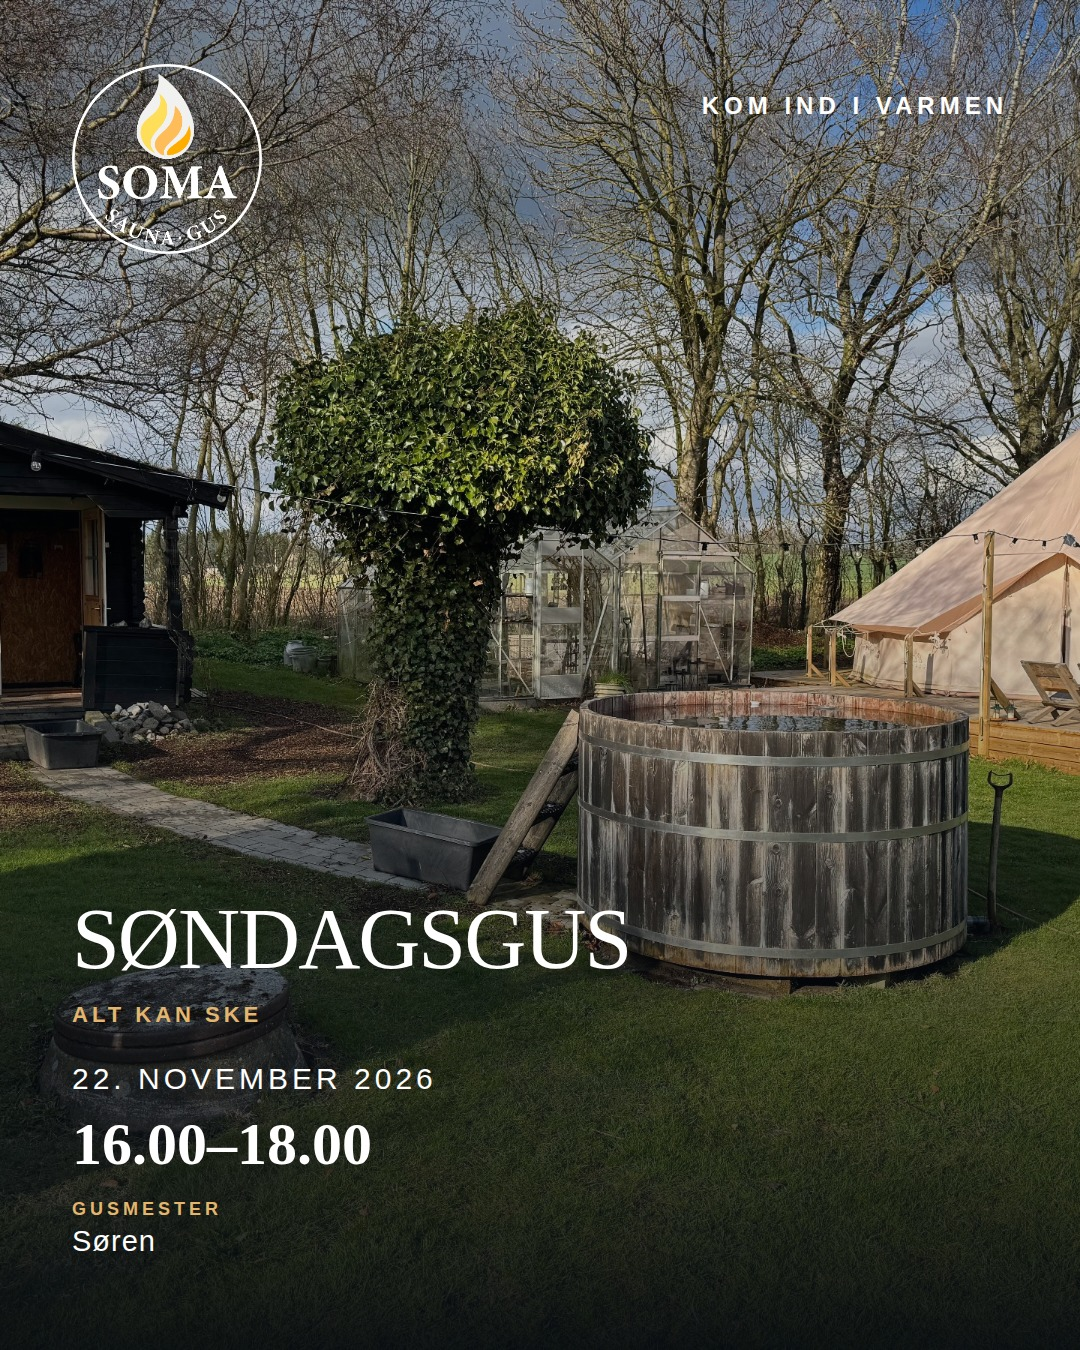
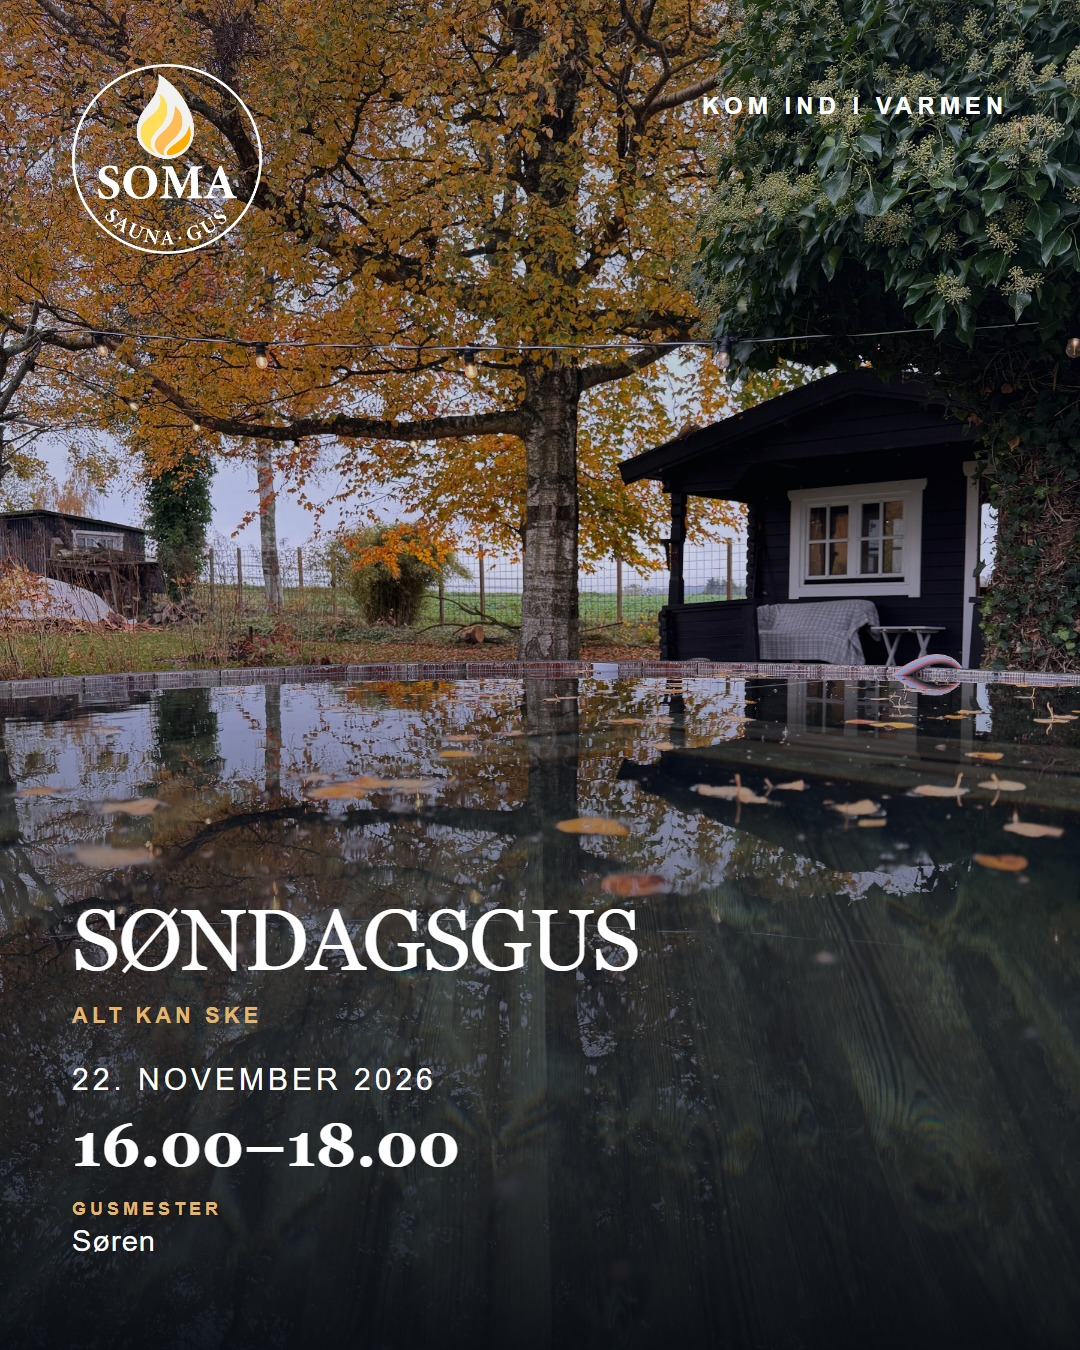
change-image: 2026-11-22_16-00_saunagus_day-before_r1 til soma-img-7323 via lokal godkendelsesside

diff --git a/outputs/content-planner/approval/drafts-data.js b/outputs/content-planner/approval/drafts-data.js
@@ -1078,7 +1078,7 @@ window.__SOMA_DRAFTS__ = window.__SOMA_DRAFTS__ || [
       "instagram": "I morgen: Rund ugen af med varme og ro i kroppen.\n\n22. november 2026 · 16.00–18.00\n\n12 ledige pladser.\n\nBook din plads: https://somasaunagus.dk/kalender/",
       "facebookPage": "Dato og tid: 22. november 2026 · 16.00–18.00\n\n12 ledige pladser.\n\nBook din plads: https://somasaunagus.dk/kalender/\n\nI morgen kan du træde ind i varmen til et saunagus.\n\nRund ugen af med varme og ro i kroppen.\n\nSøndagens musik og tema kan variere, men den rolige grundrejse er altid med.\n\nKom med og giv dig selv en blid afslutning på ugen."
     },
[2 lines of base64/hex data omitted]
     "factsUsed": [
       "event.date",
       "event.start",
@@ -1086,18 +1086,25 @@ window.__SOMA_DRAFTS__ = window.__SOMA_DRAFTS__ || [
       "event.name",
       "profile:soren"
     ],
-    "assetId": "soma-img-6706",
+    "assetId": "soma-img-7323",
     "render": {
       "path": "renders/2026-11-22_16-00_saunagus_day-before-d2f2ba619d.jpg",
       "width": 1080,
       "height": 1350,
[2 lines of base64/hex data omitted]
     },
     "renderPath": "renders/2026-11-22_16-00_saunagus_day-before-d2f2ba619d.jpg",
     "manualInstructor": null,
-    "manualAssetId": null,
-    "history": [],
[1 lines of base64/hex data omitted]
+    "manualAssetId": "soma-img-7323",
+    "history": [
+      {
+        "at": "2026-11-08T08:57:00.936Z",
+        "type": "change_image",
+        "from": "draft",
+        "to": "draft"
+      }
+    ],
[1 lines of base64/hex data omitted]
     "approvedAt": null,
     "approvedBy": null,
     "approvedRevision": null,
